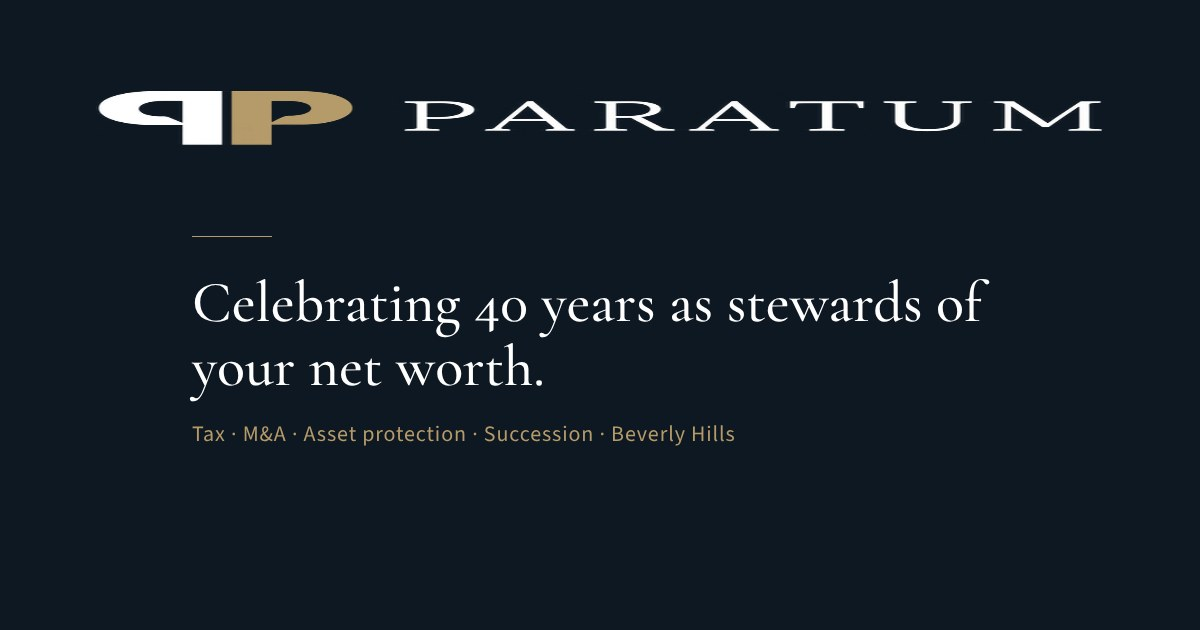
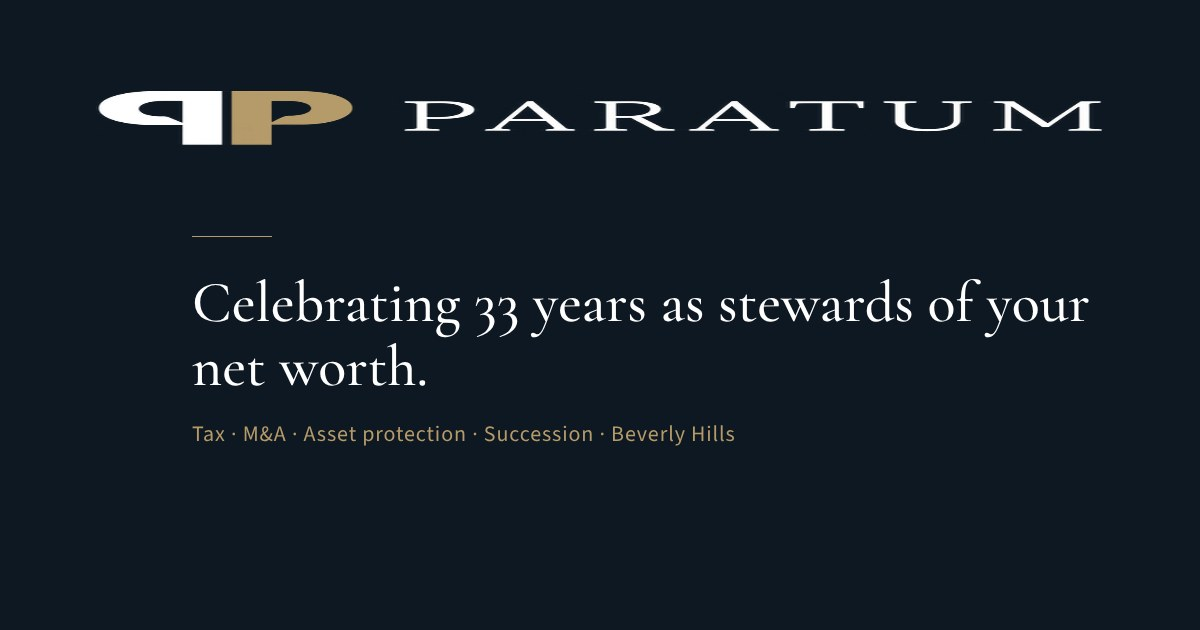
Paratum: 33 years, about text
Claude-Session: https://claude.ai/code/session_01Hi9oKGjBXqKJrBU3fsA1wG

Changed region(s): [[0.1542, 0.4222, 0.925, 0.6333]]

diff --git a/paratum/approach/index.html b/paratum/approach/index.html
@@ -386,7 +386,7 @@ if((p==='/'||!live)&&!(location.hash&&location.hash.length>1)&&!matchMedia('(pre
   <div class="hero">
     <div class="hero-media" data-img="home"></div>
     <div class="hero-content wrap">
-      <h1 class="hero-h1">Celebrating 40 years as stewards of your net&nbsp;worth.</h1>
+      <h1 class="hero-h1">Celebrating 33 years as stewards of your net&nbsp;worth.</h1>
       <div class="btn-row hero-btns">
         <a class="btn btn-solid" href="/contact">Request a private consultation</a>
       </div>
@@ -396,8 +396,8 @@ if((p==='/'||!live)&&!(location.hash&&location.hash.length>1)&&!matchMedia('(pre
 
   <div class="band band-light">
     <div class="wrap narrow">
-      <p class="statement">Paratum is a wealth management and advisory firm specialized in designing tax mitigation, asset protection and succession strategies for high-net-worth families, business owners and institutions in complex, high-stakes situations.</p>
-      <p class="statement">Since 1994, Paratum&rsquo;s leadership has protected its clients&rsquo; wealth, preserved their privacy and secured their legacy, delivering resilient, future-proof solutions and coordinating the attorneys, trustees, advisers and banks who put them in place.</p>
+      <p class="statement">Paratum is a wealth management and advisory firm specialized in designing tax mitigation, asset protection and succession strategies for institutions, high-net-worth families and business owners in complex, high-stakes situations.</p>
+      <p class="statement">Since 1994, Paratum&rsquo;s leadership has delivered resilient, future-proof solutions that protect wealth, shield privacy and preserve the legacy of its clients.</p>
     </div>
   </div>
 </section>

diff --git a/paratum/asset-protection/index.html b/paratum/asset-protection/index.html
@@ -386,7 +386,7 @@ if((p==='/'||!live)&&!(location.hash&&location.hash.length>1)&&!matchMedia('(pre
   <div class="hero">
     <div class="hero-media" data-img="home"></div>
     <div class="hero-content wrap">
-      <h1 class="hero-h1">Celebrating 40 years as stewards of your net&nbsp;worth.</h1>
+      <h1 class="hero-h1">Celebrating 33 years as stewards of your net&nbsp;worth.</h1>
       <div class="btn-row hero-btns">
         <a class="btn btn-solid" href="/contact">Request a private consultation</a>
       </div>
@@ -396,8 +396,8 @@ if((p==='/'||!live)&&!(location.hash&&location.hash.length>1)&&!matchMedia('(pre
 
   <div class="band band-light">
     <div class="wrap narrow">
-      <p class="statement">Paratum is a wealth management and advisory firm specialized in designing tax mitigation, asset protection and succession strategies for high-net-worth families, business owners and institutions in complex, high-stakes situations.</p>
-      <p class="statement">Since 1994, Paratum&rsquo;s leadership has protected its clients&rsquo; wealth, preserved their privacy and secured their legacy, delivering resilient, future-proof solutions and coordinating the attorneys, trustees, advisers and banks who put them in place.</p>
+      <p class="statement">Paratum is a wealth management and advisory firm specialized in designing tax mitigation, asset protection and succession strategies for institutions, high-net-worth families and business owners in complex, high-stakes situations.</p>
+      <p class="statement">Since 1994, Paratum&rsquo;s leadership has delivered resilient, future-proof solutions that protect wealth, shield privacy and preserve the legacy of its clients.</p>
     </div>
   </div>
 </section>

diff --git a/paratum/asset-protection/pre-litigation/index.html b/paratum/asset-protection/pre-litigation/index.html
@@ -386,7 +386,7 @@ if((p==='/'||!live)&&!(location.hash&&location.hash.length>1)&&!matchMedia('(pre
   <div class="hero">
     <div class="hero-media" data-img="home"></div>
     <div class="hero-content wrap">
-      <h1 class="hero-h1">Celebrating 40 years as stewards of your net&nbsp;worth.</h1>
+      <h1 class="hero-h1">Celebrating 33 years as stewards of your net&nbsp;worth.</h1>
       <div class="btn-row hero-btns">
         <a class="btn btn-solid" href="/contact">Request a private consultation</a>
       </div>
@@ -396,8 +396,8 @@ if((p==='/'||!live)&&!(location.hash&&location.hash.length>1)&&!matchMedia('(pre
 
   <div class="band band-light">
     <div class="wrap narrow">
-      <p class="statement">Paratum is a wealth management and advisory firm specialized in designing tax mitigation, asset protection and succession strategies for high-net-worth families, business owners and institutions in complex, high-stakes situations.</p>
-      <p class="statement">Since 1994, Paratum&rsquo;s leadership has protected its clients&rsquo; wealth, preserved their privacy and secured their legacy, delivering resilient, future-proof solutions and coordinating the attorneys, trustees, advisers and banks who put them in place.</p>
+      <p class="statement">Paratum is a wealth management and advisory firm specialized in designing tax mitigation, asset protection and succession strategies for institutions, high-net-worth families and business owners in complex, high-stakes situations.</p>
+      <p class="statement">Since 1994, Paratum&rsquo;s leadership has delivered resilient, future-proof solutions that protect wealth, shield privacy and preserve the legacy of its clients.</p>
     </div>
   </div>
 </section>

diff --git a/paratum/asset-protection/structures/index.html b/paratum/asset-protection/structures/index.html
@@ -386,7 +386,7 @@ if((p==='/'||!live)&&!(location.hash&&location.hash.length>1)&&!matchMedia('(pre
   <div class="hero">
     <div class="hero-media" data-img="home"></div>
     <div class="hero-content wrap">
-      <h1 class="hero-h1">Celebrating 40 years as stewards of your net&nbsp;worth.</h1>
+      <h1 class="hero-h1">Celebrating 33 years as stewards of your net&nbsp;worth.</h1>
       <div class="btn-row hero-btns">
         <a class="btn btn-solid" href="/contact">Request a private consultation</a>
       </div>
@@ -396,8 +396,8 @@ if((p==='/'||!live)&&!(location.hash&&location.hash.length>1)&&!matchMedia('(pre
 
   <div class="band band-light">
     <div class="wrap narrow">
-      <p class="statement">Paratum is a wealth management and advisory firm specialized in designing tax mitigation, asset protection and succession strategies for high-net-worth families, business owners and institutions in complex, high-stakes situations.</p>
-      <p class="statement">Since 1994, Paratum&rsquo;s leadership has protected its clients&rsquo; wealth, preserved their privacy and secured their legacy, delivering resilient, future-proof solutions and coordinating the attorneys, trustees, advisers and banks who put them in place.</p>
+      <p class="statement">Paratum is a wealth management and advisory firm specialized in designing tax mitigation, asset protection and succession strategies for institutions, high-net-worth families and business owners in complex, high-stakes situations.</p>
+      <p class="statement">Since 1994, Paratum&rsquo;s leadership has delivered resilient, future-proof solutions that protect wealth, shield privacy and preserve the legacy of its clients.</p>
     </div>
   </div>
 </section>

diff --git a/paratum/asset-protection/succession/index.html b/paratum/asset-protection/succession/index.html
@@ -386,7 +386,7 @@ if((p==='/'||!live)&&!(location.hash&&location.hash.length>1)&&!matchMedia('(pre
   <div class="hero">
     <div class="hero-media" data-img="home"></div>
     <div class="hero-content wrap">
-      <h1 class="hero-h1">Celebrating 40 years as stewards of your net&nbsp;worth.</h1>
+      <h1 class="hero-h1">Celebrating 33 years as stewards of your net&nbsp;worth.</h1>
       <div class="btn-row hero-btns">
         <a class="btn btn-solid" href="/contact">Request a private consultation</a>
       </div>
@@ -396,8 +396,8 @@ if((p==='/'||!live)&&!(location.hash&&location.hash.length>1)&&!matchMedia('(pre
 
   <div class="band band-light">
     <div class="wrap narrow">
-      <p class="statement">Paratum is a wealth management and advisory firm specialized in designing tax mitigation, asset protection and succession strategies for high-net-worth families, business owners and institutions in complex, high-stakes situations.</p>
-      <p class="statement">Since 1994, Paratum&rsquo;s leadership has protected its clients&rsquo; wealth, preserved their privacy and secured their legacy, delivering resilient, future-proof solutions and coordinating the attorneys, trustees, advisers and banks who put them in place.</p>
+      <p class="statement">Paratum is a wealth management and advisory firm specialized in designing tax mitigation, asset protection and succession strategies for institutions, high-net-worth families and business owners in complex, high-stakes situations.</p>
+      <p class="statement">Since 1994, Paratum&rsquo;s leadership has delivered resilient, future-proof solutions that protect wealth, shield privacy and preserve the legacy of its clients.</p>
     </div>
   </div>
 </section>

diff --git a/paratum/asset-protection/trusts-and-fiduciary/index.html b/paratum/asset-protection/trusts-and-fiduciary/index.html
@@ -386,7 +386,7 @@ if((p==='/'||!live)&&!(location.hash&&location.hash.length>1)&&!matchMedia('(pre
   <div class="hero">
     <div class="hero-media" data-img="home"></div>
     <div class="hero-content wrap">
-      <h1 class="hero-h1">Celebrating 40 years as stewards of your net&nbsp;worth.</h1>
+      <h1 class="hero-h1">Celebrating 33 years as stewards of your net&nbsp;worth.</h1>
       <div class="btn-row hero-btns">
         <a class="btn btn-solid" href="/contact">Request a private consultation</a>
       </div>
@@ -396,8 +396,8 @@ if((p==='/'||!live)&&!(location.hash&&location.hash.length>1)&&!matchMedia('(pre
 
   <div class="band band-light">
     <div class="wrap narrow">
-      <p class="statement">Paratum is a wealth management and advisory firm specialized in designing tax mitigation, asset protection and succession strategies for high-net-worth families, business owners and institutions in complex, high-stakes situations.</p>
-      <p class="statement">Since 1994, Paratum&rsquo;s leadership has protected its clients&rsquo; wealth, preserved their privacy and secured their legacy, delivering resilient, future-proof solutions and coordinating the attorneys, trustees, advisers and banks who put them in place.</p>
+      <p class="statement">Paratum is a wealth management and advisory firm specialized in designing tax mitigation, asset protection and succession strategies for institutions, high-net-worth families and business owners in complex, high-stakes situations.</p>
+      <p class="statement">Since 1994, Paratum&rsquo;s leadership has delivered resilient, future-proof solutions that protect wealth, shield privacy and preserve the legacy of its clients.</p>
     </div>
   </div>
 </section>

diff --git a/paratum/clients/index.html b/paratum/clients/index.html
@@ -386,7 +386,7 @@ if((p==='/'||!live)&&!(location.hash&&location.hash.length>1)&&!matchMedia('(pre
   <div class="hero">
     <div class="hero-media" data-img="home"></div>
     <div class="hero-content wrap">
-      <h1 class="hero-h1">Celebrating 40 years as stewards of your net&nbsp;worth.</h1>
+      <h1 class="hero-h1">Celebrating 33 years as stewards of your net&nbsp;worth.</h1>
       <div class="btn-row hero-btns">
         <a class="btn btn-solid" href="/contact">Request a private consultation</a>
       </div>
@@ -396,8 +396,8 @@ if((p==='/'||!live)&&!(location.hash&&location.hash.length>1)&&!matchMedia('(pre
 
   <div class="band band-light">
     <div class="wrap narrow">
-      <p class="statement">Paratum is a wealth management and advisory firm specialized in designing tax mitigation, asset protection and succession strategies for high-net-worth families, business owners and institutions in complex, high-stakes situations.</p>
-      <p class="statement">Since 1994, Paratum&rsquo;s leadership has protected its clients&rsquo; wealth, preserved their privacy and secured their legacy, delivering resilient, future-proof solutions and coordinating the attorneys, trustees, advisers and banks who put them in place.</p>
+      <p class="statement">Paratum is a wealth management and advisory firm specialized in designing tax mitigation, asset protection and succession strategies for institutions, high-net-worth families and business owners in complex, high-stakes situations.</p>
+      <p class="statement">Since 1994, Paratum&rsquo;s leadership has delivered resilient, future-proof solutions that protect wealth, shield privacy and preserve the legacy of its clients.</p>
     </div>
   </div>
 </section>

diff --git a/paratum/contact/index.html b/paratum/contact/index.html
@@ -386,7 +386,7 @@ if((p==='/'||!live)&&!(location.hash&&location.hash.length>1)&&!matchMedia('(pre
   <div class="hero">
     <div class="hero-media" data-img="home"></div>
     <div class="hero-content wrap">
-      <h1 class="hero-h1">Celebrating 40 years as stewards of your net&nbsp;worth.</h1>
+      <h1 class="hero-h1">Celebrating 33 years as stewards of your net&nbsp;worth.</h1>
       <div class="btn-row hero-btns">
         <a class="btn btn-solid" href="/contact">Request a private consultation</a>
       </div>
@@ -396,8 +396,8 @@ if((p==='/'||!live)&&!(location.hash&&location.hash.length>1)&&!matchMedia('(pre
 
   <div class="band band-light">
     <div class="wrap narrow">
-      <p class="statement">Paratum is a wealth management and advisory firm specialized in designing tax mitigation, asset protection and succession strategies for high-net-worth families, business owners and institutions in complex, high-stakes situations.</p>
-      <p class="statement">Since 1994, Paratum&rsquo;s leadership has protected its clients&rsquo; wealth, preserved their privacy and secured their legacy, delivering resilient, future-proof solutions and coordinating the attorneys, trustees, advisers and banks who put them in place.</p>
+      <p class="statement">Paratum is a wealth management and advisory firm specialized in designing tax mitigation, asset protection and succession strategies for institutions, high-net-worth families and business owners in complex, high-stakes situations.</p>
+      <p class="statement">Since 1994, Paratum&rsquo;s leadership has delivered resilient, future-proof solutions that protect wealth, shield privacy and preserve the legacy of its clients.</p>
     </div>
   </div>
 </section>

diff --git a/paratum/disclosures/index.html b/paratum/disclosures/index.html
@@ -386,7 +386,7 @@ if((p==='/'||!live)&&!(location.hash&&location.hash.length>1)&&!matchMedia('(pre
   <div class="hero">
     <div class="hero-media" data-img="home"></div>
     <div class="hero-content wrap">
-      <h1 class="hero-h1">Celebrating 40 years as stewards of your net&nbsp;worth.</h1>
+      <h1 class="hero-h1">Celebrating 33 years as stewards of your net&nbsp;worth.</h1>
       <div class="btn-row hero-btns">
         <a class="btn btn-solid" href="/contact">Request a private consultation</a>
       </div>
@@ -396,8 +396,8 @@ if((p==='/'||!live)&&!(location.hash&&location.hash.length>1)&&!matchMedia('(pre
 
   <div class="band band-light">
     <div class="wrap narrow">
-      <p class="statement">Paratum is a wealth management and advisory firm specialized in designing tax mitigation, asset protection and succession strategies for high-net-worth families, business owners and institutions in complex, high-stakes situations.</p>
-      <p class="statement">Since 1994, Paratum&rsquo;s leadership has protected its clients&rsquo; wealth, preserved their privacy and secured their legacy, delivering resilient, future-proof solutions and coordinating the attorneys, trustees, advisers and banks who put them in place.</p>
+      <p class="statement">Paratum is a wealth management and advisory firm specialized in designing tax mitigation, asset protection and succession strategies for institutions, high-net-worth families and business owners in complex, high-stakes situations.</p>
+      <p class="statement">Since 1994, Paratum&rsquo;s leadership has delivered resilient, future-proof solutions that protect wealth, shield privacy and preserve the legacy of its clients.</p>
     </div>
   </div>
 </section>

diff --git a/paratum/experience/index.html b/paratum/experience/index.html
@@ -386,7 +386,7 @@ if((p==='/'||!live)&&!(location.hash&&location.hash.length>1)&&!matchMedia('(pre
   <div class="hero">
     <div class="hero-media" data-img="home"></div>
     <div class="hero-content wrap">
-      <h1 class="hero-h1">Celebrating 40 years as stewards of your net&nbsp;worth.</h1>
+      <h1 class="hero-h1">Celebrating 33 years as stewards of your net&nbsp;worth.</h1>
       <div class="btn-row hero-btns">
         <a class="btn btn-solid" href="/contact">Request a private consultation</a>
       </div>
@@ -396,8 +396,8 @@ if((p==='/'||!live)&&!(location.hash&&location.hash.length>1)&&!matchMedia('(pre
 
   <div class="band band-light">
     <div class="wrap narrow">
-      <p class="statement">Paratum is a wealth management and advisory firm specialized in designing tax mitigation, asset protection and succession strategies for high-net-worth families, business owners and institutions in complex, high-stakes situations.</p>
-      <p class="statement">Since 1994, Paratum&rsquo;s leadership has protected its clients&rsquo; wealth, preserved their privacy and secured their legacy, delivering resilient, future-proof solutions and coordinating the attorneys, trustees, advisers and banks who put them in place.</p>
+      <p class="statement">Paratum is a wealth management and advisory firm specialized in designing tax mitigation, asset protection and succession strategies for institutions, high-net-worth families and business owners in complex, high-stakes situations.</p>
+      <p class="statement">Since 1994, Paratum&rsquo;s leadership has delivered resilient, future-proof solutions that protect wealth, shield privacy and preserve the legacy of its clients.</p>
     </div>
   </div>
 </section>

diff --git a/paratum/family-office/index.html b/paratum/family-office/index.html
@@ -386,7 +386,7 @@ if((p==='/'||!live)&&!(location.hash&&location.hash.length>1)&&!matchMedia('(pre
   <div class="hero">
     <div class="hero-media" data-img="home"></div>
     <div class="hero-content wrap">
-      <h1 class="hero-h1">Celebrating 40 years as stewards of your net&nbsp;worth.</h1>
+      <h1 class="hero-h1">Celebrating 33 years as stewards of your net&nbsp;worth.</h1>
       <div class="btn-row hero-btns">
         <a class="btn btn-solid" href="/contact">Request a private consultation</a>
       </div>
@@ -396,8 +396,8 @@ if((p==='/'||!live)&&!(location.hash&&location.hash.length>1)&&!matchMedia('(pre
 
   <div class="band band-light">
     <div class="wrap narrow">
-      <p class="statement">Paratum is a wealth management and advisory firm specialized in designing tax mitigation, asset protection and succession strategies for high-net-worth families, business owners and institutions in complex, high-stakes situations.</p>
-      <p class="statement">Since 1994, Paratum&rsquo;s leadership has protected its clients&rsquo; wealth, preserved their privacy and secured their legacy, delivering resilient, future-proof solutions and coordinating the attorneys, trustees, advisers and banks who put them in place.</p>
+      <p class="statement">Paratum is a wealth management and advisory firm specialized in designing tax mitigation, asset protection and succession strategies for institutions, high-net-worth families and business owners in complex, high-stakes situations.</p>
+      <p class="statement">Since 1994, Paratum&rsquo;s leadership has delivered resilient, future-proof solutions that protect wealth, shield privacy and preserve the legacy of its clients.</p>
     </div>
   </div>
 </section>

diff --git a/paratum/faq/index.html b/paratum/faq/index.html
@@ -387,7 +387,7 @@ if((p==='/'||!live)&&!(location.hash&&location.hash.length>1)&&!matchMedia('(pre
   <div class="hero">
     <div class="hero-media" data-img="home"></div>
     <div class="hero-content wrap">
-      <h1 class="hero-h1">Celebrating 40 years as stewards of your net&nbsp;worth.</h1>
+      <h1 class="hero-h1">Celebrating 33 years as stewards of your net&nbsp;worth.</h1>
       <div class="btn-row hero-btns">
         <a class="btn btn-solid" href="/contact">Request a private consultation</a>
       </div>
@@ -397,8 +397,8 @@ if((p==='/'||!live)&&!(location.hash&&location.hash.length>1)&&!matchMedia('(pre
 
   <div class="band band-light">
     <div class="wrap narrow">
-      <p class="statement">Paratum is a wealth management and advisory firm specialized in designing tax mitigation, asset protection and succession strategies for high-net-worth families, business owners and institutions in complex, high-stakes situations.</p>
-      <p class="statement">Since 1994, Paratum&rsquo;s leadership has protected its clients&rsquo; wealth, preserved their privacy and secured their legacy, delivering resilient, future-proof solutions and coordinating the attorneys, trustees, advisers and banks who put them in place.</p>
+      <p class="statement">Paratum is a wealth management and advisory firm specialized in designing tax mitigation, asset protection and succession strategies for institutions, high-net-worth families and business owners in complex, high-stakes situations.</p>
+      <p class="statement">Since 1994, Paratum&rsquo;s leadership has delivered resilient, future-proof solutions that protect wealth, shield privacy and preserve the legacy of its clients.</p>
     </div>
   </div>
 </section>
